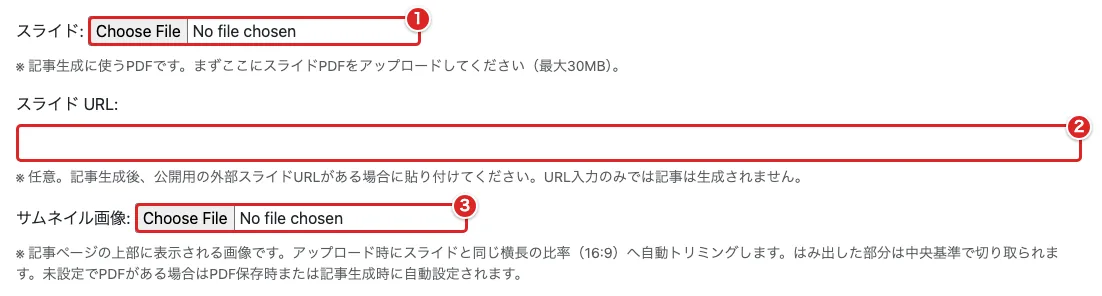
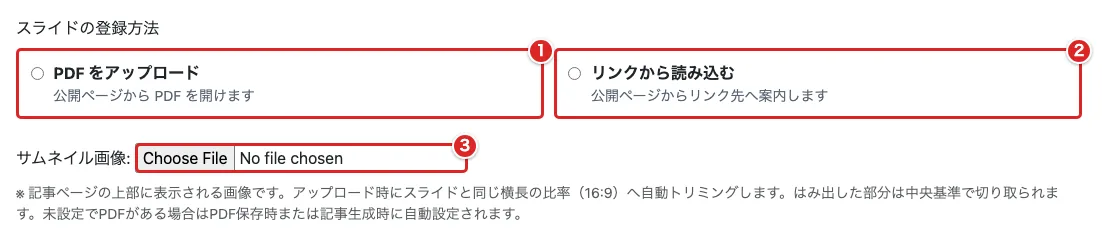
ガイドの画像を新しいスライドの登録画面に撮り直す

Changed region(s): [[0.0, 0.0297, 1.0, 0.9492]]

diff --git a/scripts/guide_screenshots/scenarios/speaker.py b/scripts/guide_screenshots/scenarios/speaker.py
@@ -71,7 +71,7 @@ def manage(capture):
     region(capture, [field('theme'), field('speaker')], marks=['#id_theme', '#id_speaker'])
     region(capture, [field('h1'), field('contents')], marks=['#id_h1', '#id_contents'])
     region(capture, [field('slide_entry'), field('youtube_url')],
-           marks=['#id_slide_entry_0', '#id_slide_entry_1', '#id_youtube_url'])
+           marks=['label:has(#id_slide_entry_0)', 'label:has(#id_slide_entry_1)', '#id_youtube_url'])
     region(capture, [field('recording_policy'), field('article_consent')])
     region(capture, ['#application-form [data-admin-action-bar]'],
            marks=['#application-form button[type=submit]'])

diff --git a/scripts/guide_screenshots/scenarios/lt.py b/scripts/guide_screenshots/scenarios/lt.py
@@ -95,8 +95,8 @@ def create(capture):
     capture.annotate('#detail-settings-toggle button', 1)
     region(capture, '#detail-settings-toggle')
     expand(capture)
-    capture.annotate('#id_slide_entry_0', 1)
-    capture.annotate('#id_slide_entry_1', 2)
+    capture.annotate('label:has(#id_slide_entry_0)', 1)
+    capture.annotate('label:has(#id_slide_entry_1)', 2)
     capture.annotate('#id_thumbnail_image', 3)
     region(capture, field('slide_entry'), field('thumbnail_image'))
     capture.page.locator('#id_detail_type_1').check()

diff --git a/docs/guide/lt/auto-generate.md b/docs/guide/lt/auto-generate.md
@@ -62,9 +62,9 @@ Speaker Deck のリンクは PDF を読み込んで記事に使います。
 開催前の編集画面では「詳細設定を表示」を押します。
 「資料」のカードへ進みます。
 
-![編集フォームの「スライド」を①、「YouTube URL」を②の赤枠で示した画面](images/lt/auto-generate-02.webp)
+![「PDF をアップロード」を選んだ編集フォームで、PDF の選択欄を①、「YouTube URL」を②の赤枠で示した画面](images/lt/auto-generate-02.webp)
 
-「PDF をアップロード」を選び、「スライドの PDF」で PDF を選びます。
+「PDF をアップロード」を選び、① の「スライドの PDF」で PDF を選びます。
 Speaker Deck を使う時は「リンクから読み込む」を選びます。
 「スライドのリンク」に発表ページの URL を貼り付けます。
 動画を使う場合は ② の「YouTube URL」に貼り付けます。
